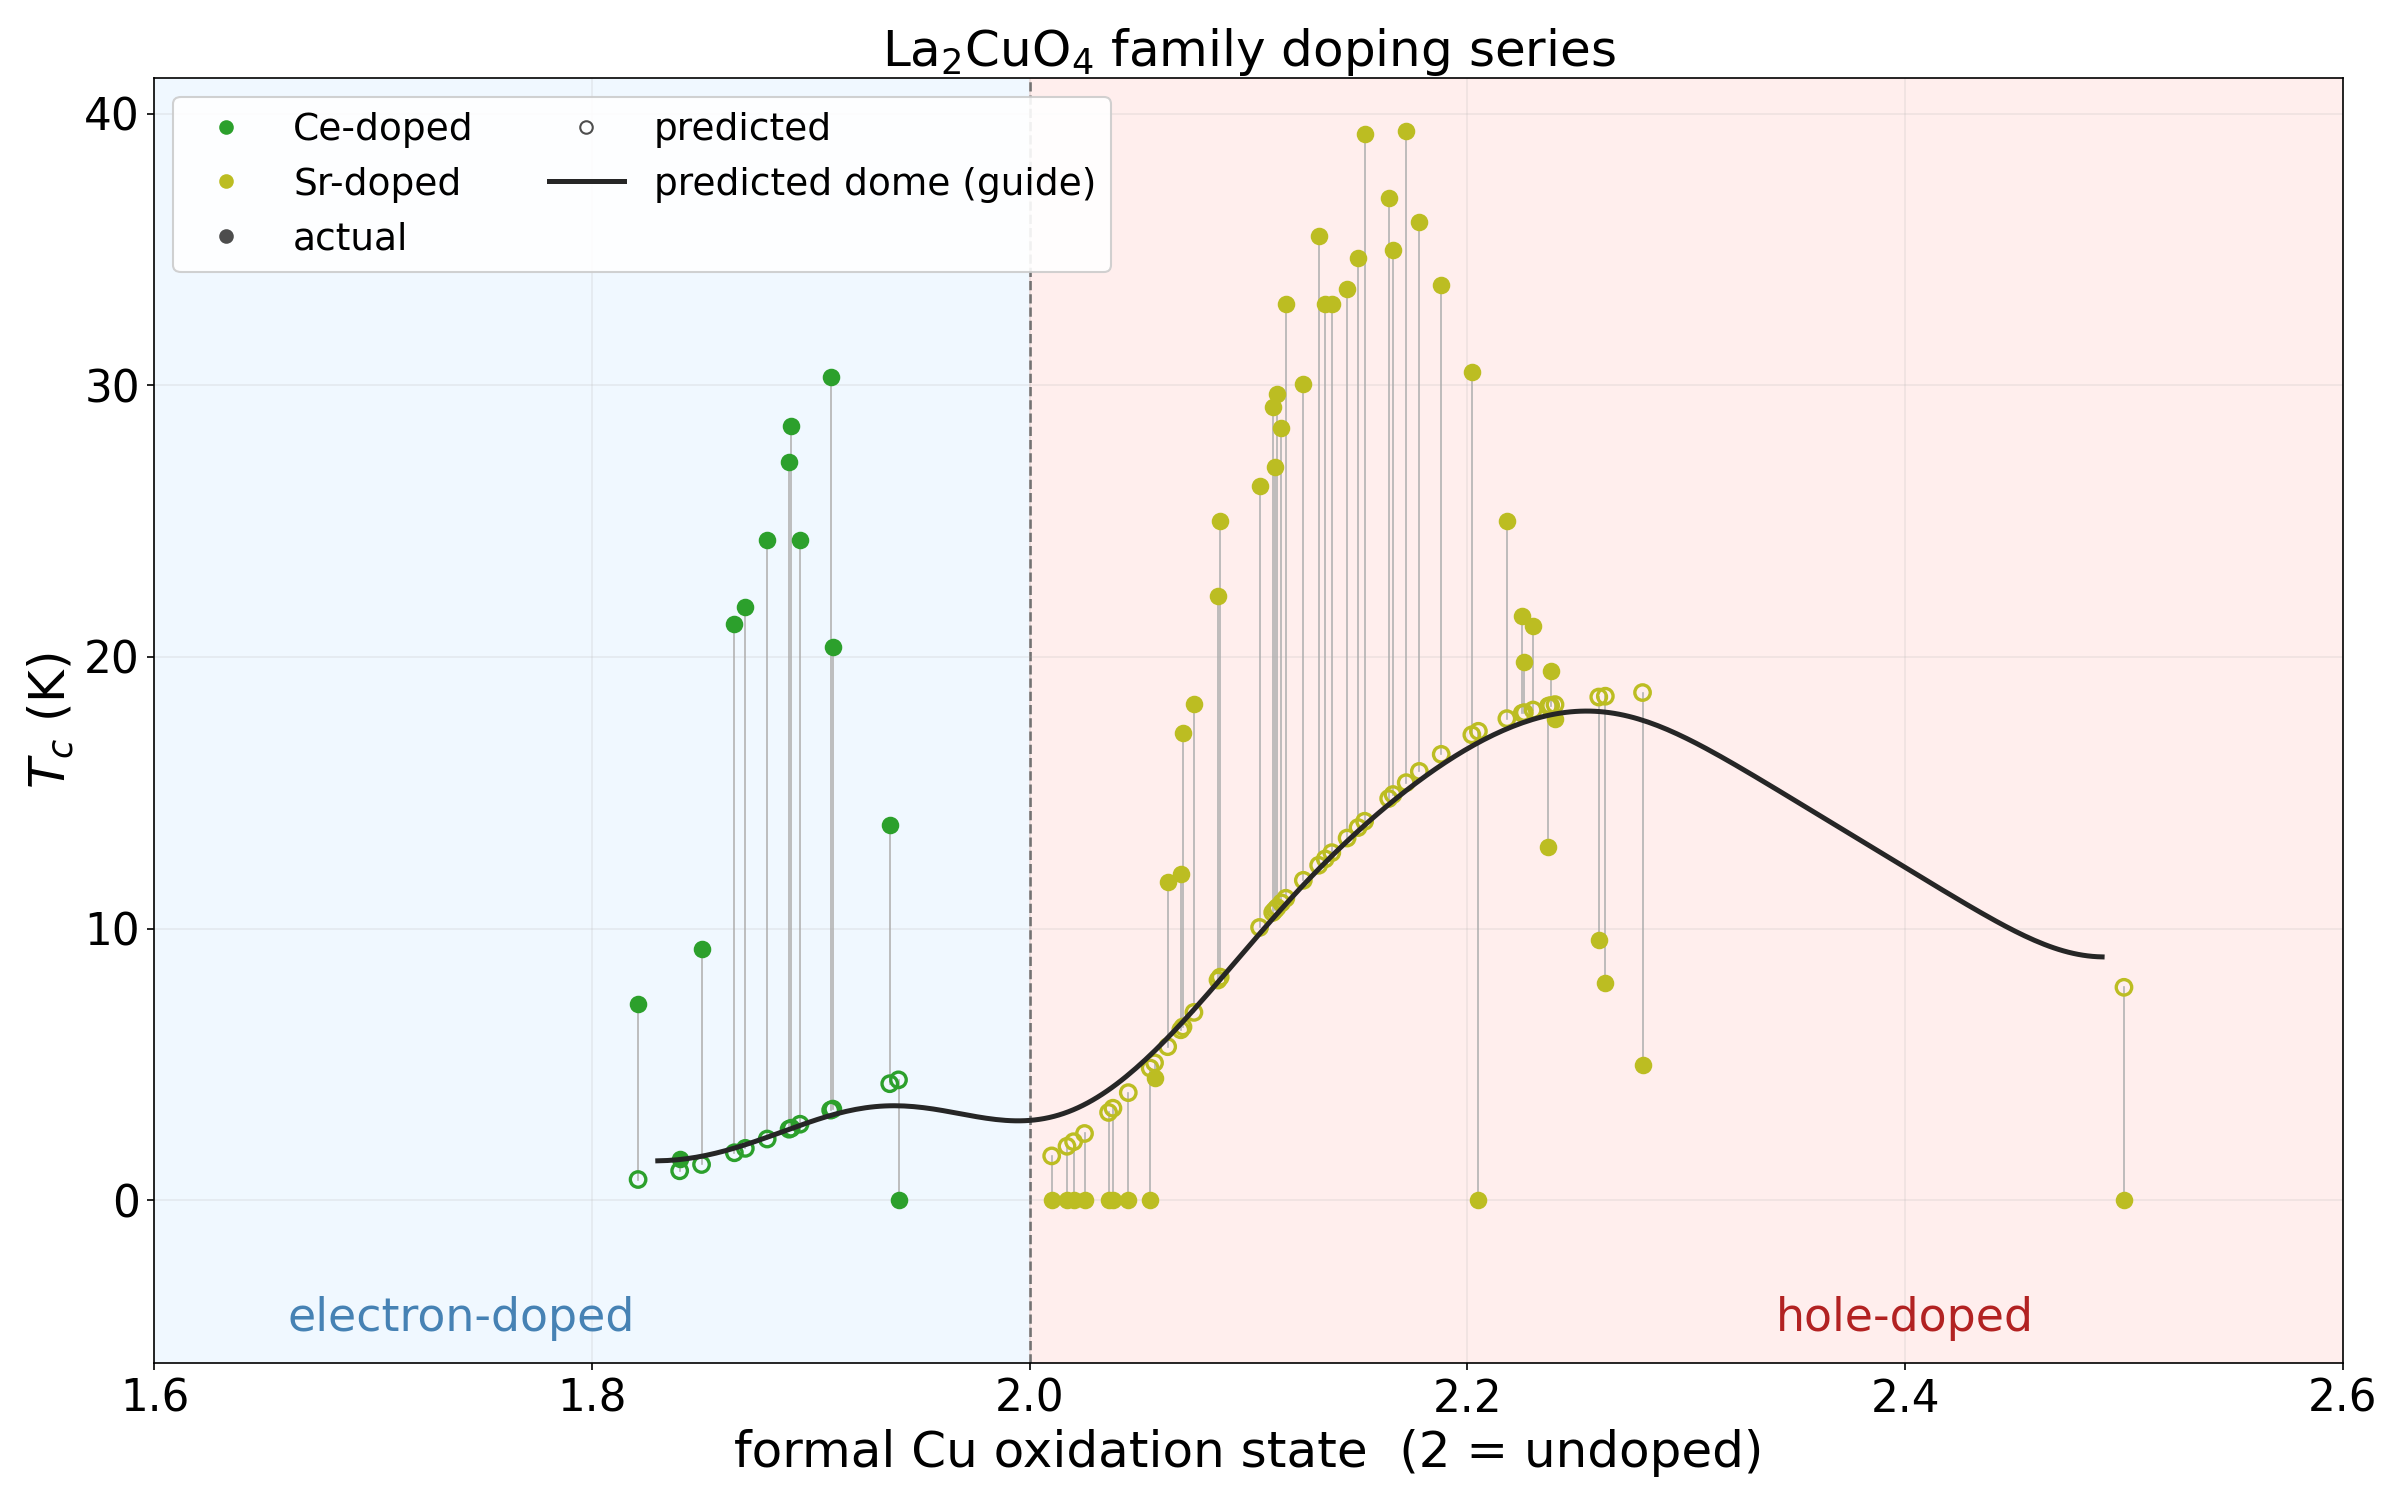
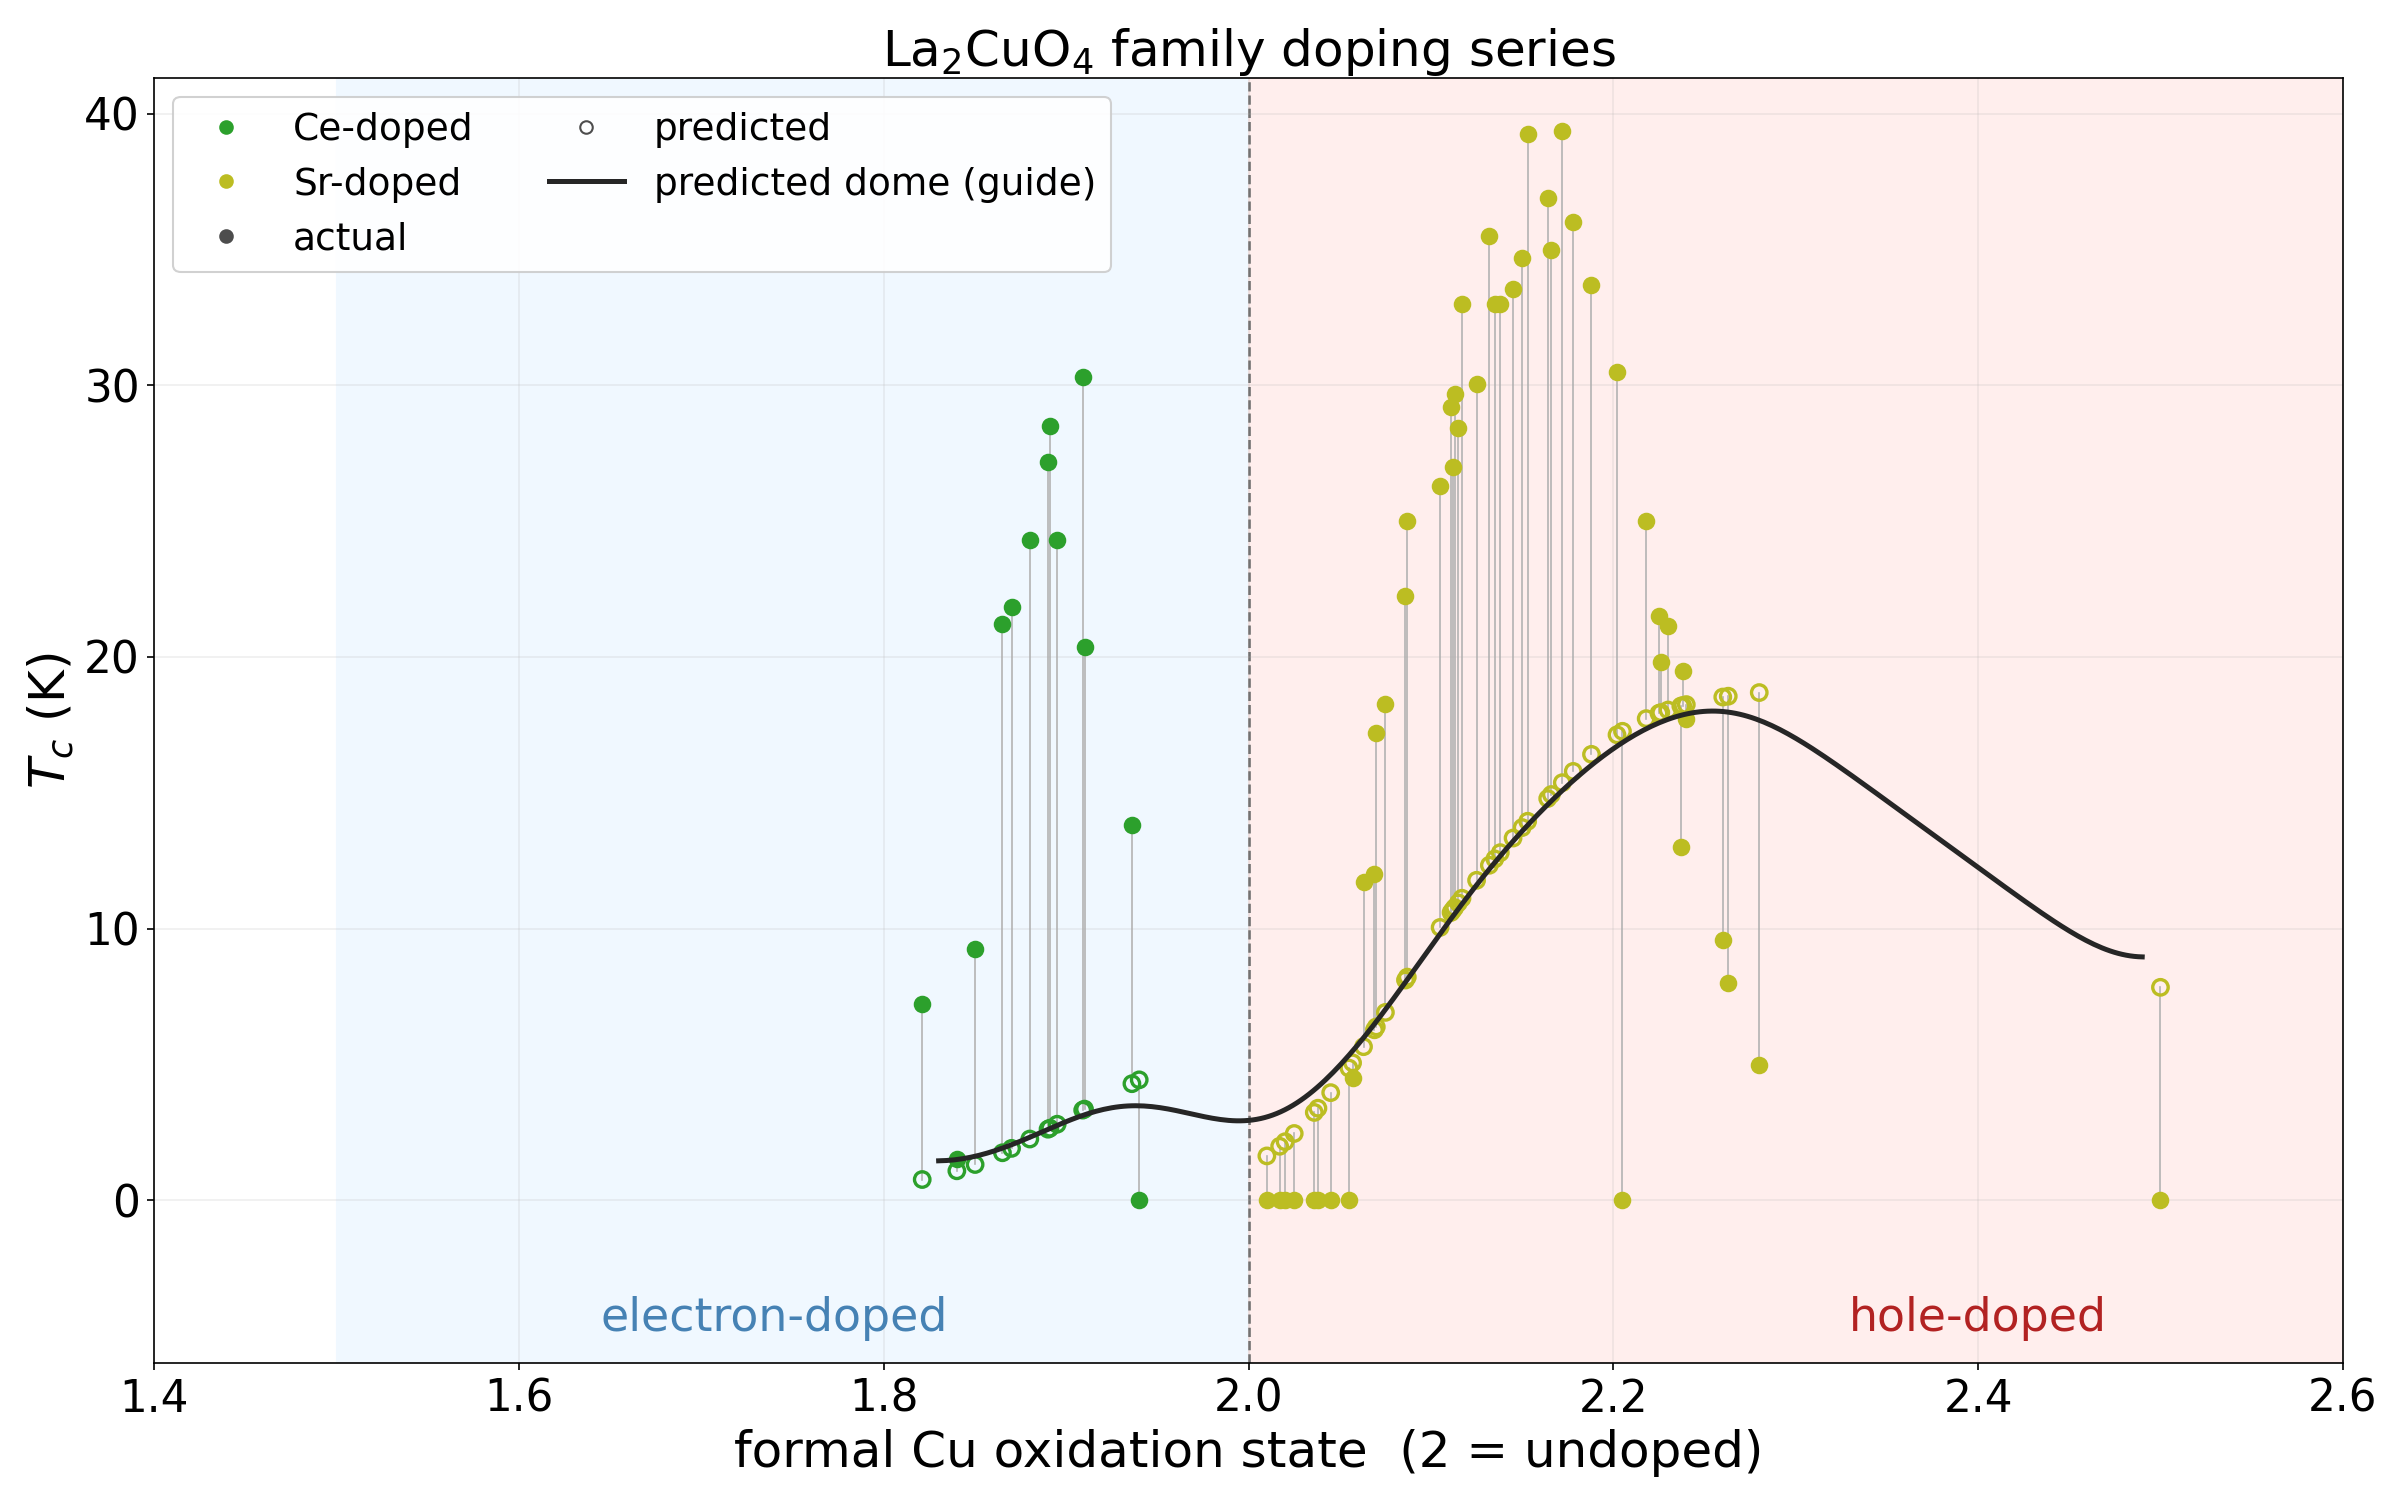
docs(figures): la_series dome — x axis 1.4-2.6 for centering

diff --git a/scripts/plot_lsco_dome.py b/scripts/plot_lsco_dome.py
@@ -107,7 +107,7 @@ ax.set_xlabel("formal Cu oxidation state  (2 = undoped)", fontsize=24)
 ax.set_ylabel("$T_c$ (K)", fontsize=24)
 ax.tick_params(axis="both", labelsize=21)
 ax.set_title("La$_2$CuO$_4$ family doping series", fontsize=24)
-ax.set_xlim(1.6, 2.6)
+ax.set_xlim(1.4, 2.6)
 # bottom margin below the tc=0 row so the region labels sit in their own band
 ax.set_ylim(bottom=-6)
 
